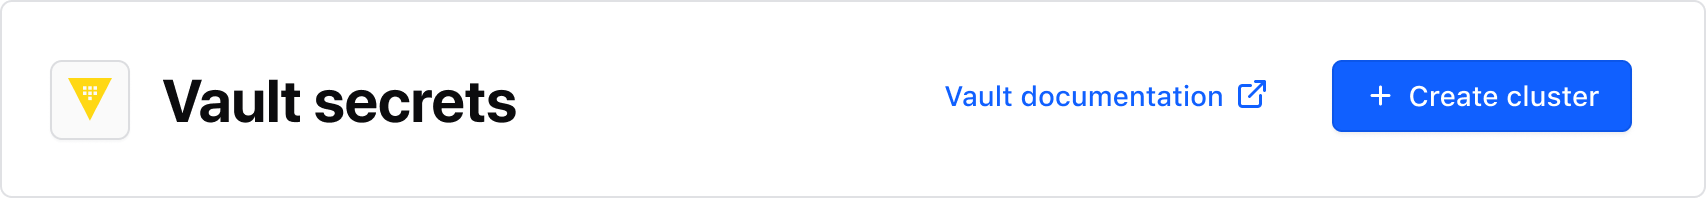
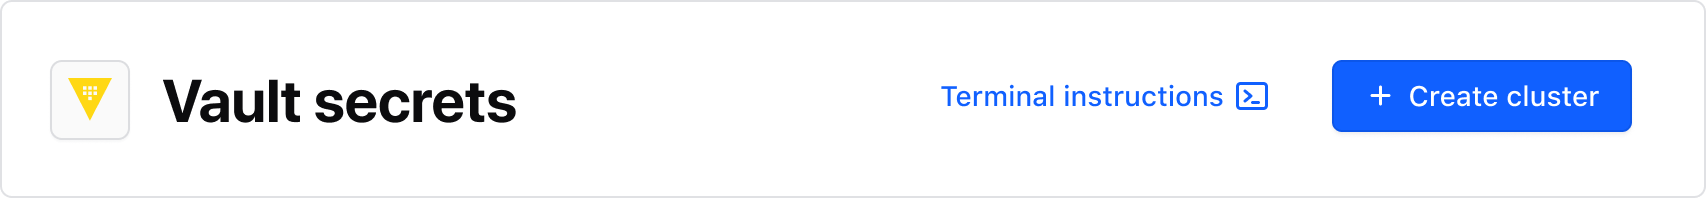
Updated guidelines around tertiary button

Changed region(s): [[0.5281, 0.3939, 0.7456, 0.5758]]

diff --git a/website/docs/components/page-header/partials/guidelines/guidelines.md b/website/docs/components/page-header/partials/guidelines/guidelines.md
@@ -157,7 +157,7 @@ Use a `secondary` [Button](/components/button) in the Page Header when highlight
 
 ### Tertiary button
 
-Use a `tertiary` [Button](/components/button) when highlighting low-priority actions like linking to external documentation.
+Use a `tertiary` [Button](/components/button) when highlighting low-priority actions like integration and terminal instructions.
 
 ![Page Header Actions Tertiary Button](/assets/components/page-header/page-header-actions-tertiary-button.png =700x*)
 
